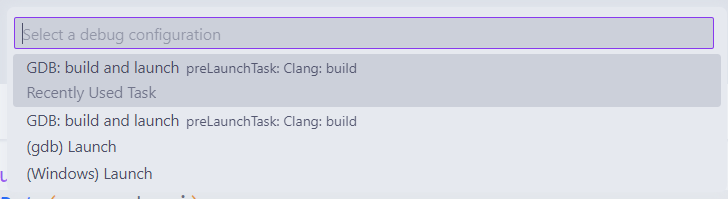
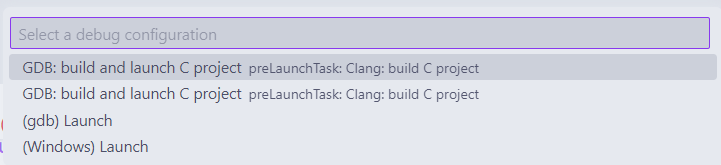
Fix tasks and launch settings for C project

diff --git a/chapters/c_project_vscode.md b/chapters/c_project_vscode.md
@@ -82,10 +82,10 @@ Aceite a instalação, e reabra o Visual Studio Code no diretório `linked_nodes
 Nele, crie uma pasta chamada `.vscode`.
 Dentro dela, crie um arquivo chamado `tasks.json` e adicione o conteúdo do arquivo [`/code/linked_nodes/.vscode/tasks.json`](/code/linked_nodes/.vscode/tasks.json) deste repositório.
 
-O que ele faz é definir uma tarefa chamada `Clang: build` que compila o projeto com o Clang, incluindo todos os arquivos de cabeçalho e código definidos na raiz do projeto.
+O que ele faz é definir uma tarefa chamada `Clang: build C project` que compila o projeto com o Clang, incluindo todos os arquivos de cabeçalho e código definidos na raiz do projeto.
 O executável gerado terá o nome da pasta aberta no Visual Studio Code.
 
-Você pode executar a tarefa `Clang: build` pressionando `Ctrl` + `Shift` + `B`, ou acessando pela **paleta de Comandos** a opção `Tasks: Run Build Task`.
+Você pode executar a tarefa `Clang: build C project` pressionando `Ctrl` + `Shift` + `B`, ou acessando pela **paleta de Comandos** a opção `Tasks: Run Build Task`.
 
 ### Rodando o programa pela interface gráfica
 
@@ -98,7 +98,7 @@ Seleciona a opção "Debug C/C++ file".
 ![Imagem da porção superior direita da janela do VsCode com a extensão C/C++ habilitada, que mostra ícones de ação sobre o código.](/img/start_debugging_in_vscode.png)
 
 O Visual Studio Code compilará pedirá para você selecionar a tarefa de depuração.
-Selecione **GDB: build and launch**.
+Selecione **GDB: build and launch C project**.
 
 ![Pop-up do VsCode pedindo para selecionar uma tarefa de depuração. A selecionada é GDB: build and launch.](/img/select_debug_task_in_vscode.png)
 
@@ -115,11 +115,15 @@ Quando o depurador pausa, você pode inspecionar variáveis, ver o valor de pont
 Felizmente, o Visual Studio Code permite que você salve as configurações de compilação e depuração em arquivos globais, para serem utilizadas em outros projetos.
 
 Para salvar o `launch.json`, você deve criar uma nova entrada no arquivo `settings.json` do Visual Studio Code, chamada `launch`.
-Dentro dela, voê pode definir todas as configurações de depuração que você deseja que sejam globais.
+Dentro dela, você pode definir todas as configurações de depuração que você deseja que sejam globais.
 Disponibilizamos uma versão atualizada do arquivo `settings.json` em [`/config/debug_settings.json`](/config/debug_settings.json), que inclui a configuração global de depuração.
 
 Para as tarefas de compilação, você deve abrir a **paleta de comandos** do Visual Studio Code e pesquisar por **Tasks: Open User Tasks (JSON)**.
 Então, selecione **Other** e cole o conteúdo do arquivo [`/config/initial_debug_tasks.json`](/config/initial_debug_tasks.json) deste repositório.
+
+As tarefas e as configurações de depuração, quando configuradas tendo selecionado o perfil MSYS2 Clang64, serão salvas apenas para esse perfil.
+Dessa forma, eliminamos o risco de conflitos entre diferentes configurações de compilação e depuração.
+Mas lembre-se de sempre selecionar este perfil ao abrir o Visual Studio Code para que as configurações sejam aplicadas
 
 ---
 

diff --git a/chapters/compiling_cpp_project.md b/chapters/compiling_cpp_project.md
@@ -1,0 +1,4 @@
+# Compilando projeto em C++
+
+O **Clang** também permite compilar projetos em C++ da mesma forma como fizemos com C.
+
